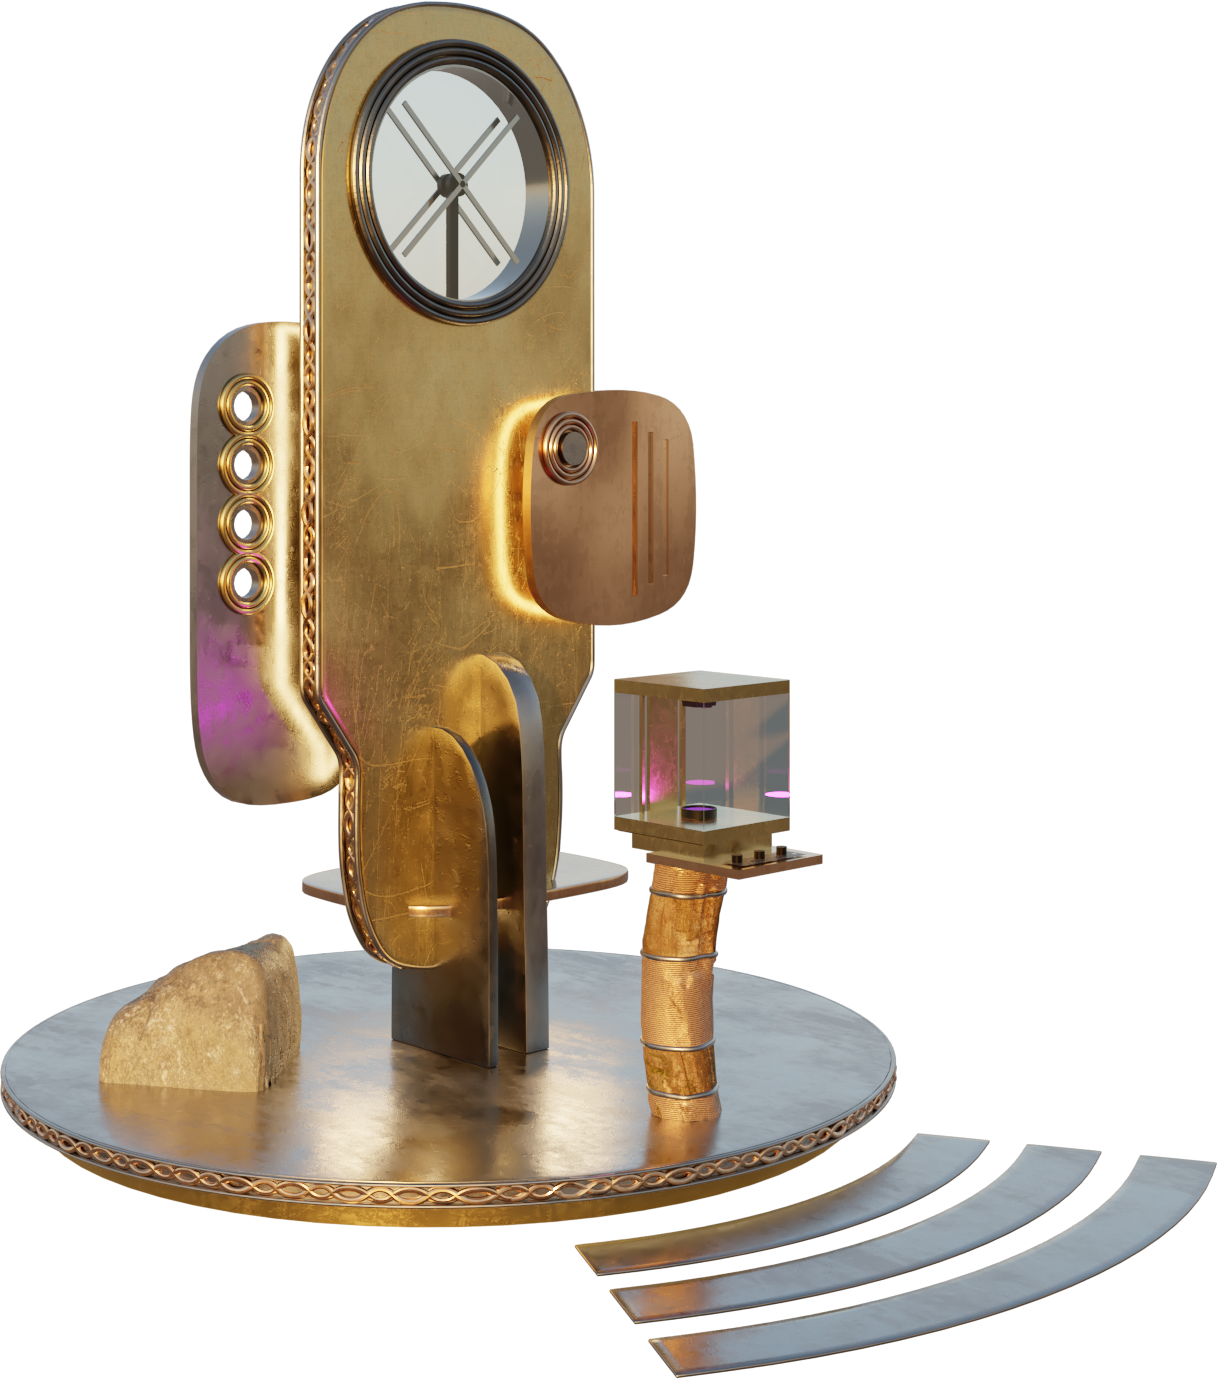
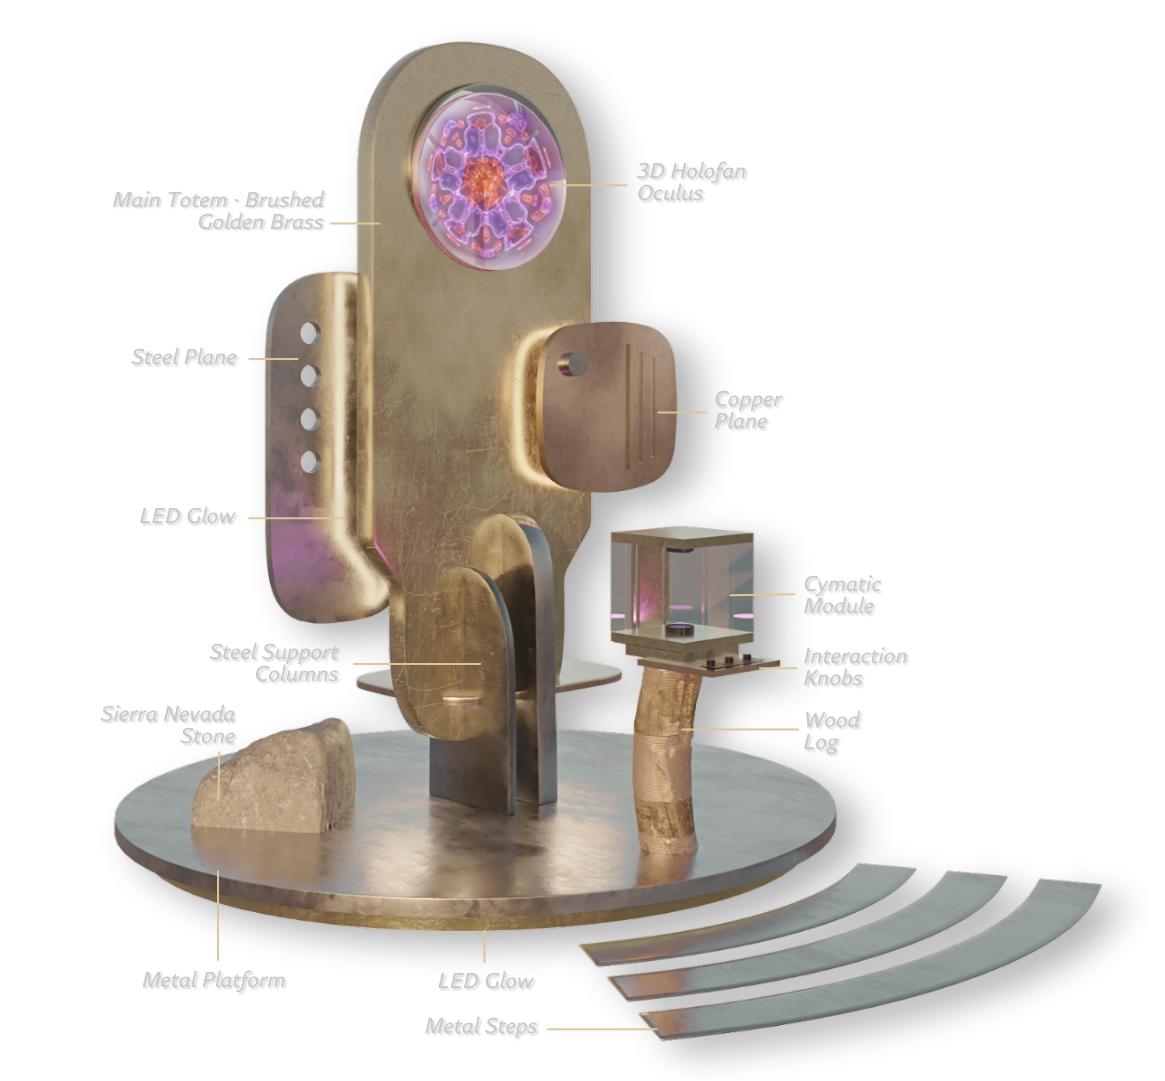
changes 062926

diff --git a/aluna_landing.html b/aluna_landing.html
@@ -54,10 +54,10 @@
   </div>
   <div class="hero-content">
     <div class="hero-inner">
-      <p class="te h-ey">Born in the Sierra Nevada de Santa Marta. Bound for Black Rock City.</p>
       <h1 class="thh h-hl" id="hero-hl">Where sound<br>becomes visible.</h1>
+      <p class="te h-ey">Born in the Sierra Nevada de Santa Marta. Bound for Black Rock City.</p>
       <p class="tsd h-sh">ALUNA is an interactive sculpture from Colombia that transforms vibration into living geometry, where Tayrona ancestral thought, cymatics, water, and human presence converge.</p>
-      <p class="tbd h-sp">Not only a sculpture, an encounter with the unseen forces that move through us and around us.</p>
+      <!-- <p class="tbd h-sp">Not only a sculpture, an encounter with the unseen forces that move through us and around us.</p> -->
       <div class="h-ct">
         <div class="scroll-ind" aria-hidden="true">
           <div class="scroll-line"></div>
@@ -91,7 +91,9 @@
 
 <!-- ═══ 03 VISION ═══ -->
 <section class="vision" id="vision" aria-labelledby="vision-h">
-  <div class="vision-bg" aria-hidden="true"></div>
+  <div class="vision-bg" aria-hidden="true">
+
+  </div>
   <div class="container">
     <div class="vision-layout">
       <div class="vision-text">
@@ -106,7 +108,6 @@
         <p class="tsd af" data-d="5">Not only a sculpture, but an encounter with the unseen forces that move through us and around us.</p>
       </div>
       <div class="vision-illus af" data-d="2" aria-hidden="true">
-        <!-- ASSET: Engraved head illustration · deck slide 3 · PLACEHOLDER -->
         <img src="assets/head.png" alt="" loading="lazy" onerror="this.closest('.vision-illus').style.display='none'">
       </div>
     </div>
@@ -116,8 +117,6 @@
 <!-- ═══ 04 WORKS ═══ -->
 <section class="works" id="works" aria-labelledby="works-h">
   <div class="works-bg" aria-hidden="true">
-    <!-- ASSET: cym01.png · convert to cymatics-01.webp -->
-    <img src="assets/cymatics_bg.png" alt="" class="works-bg-img" loading="lazy" onerror="this.style.display='none'">
     <!-- VIDEO-READY: cymatics footage — uncomment when available
     <div class="works-bg-video" id="works-video">
       <video autoplay muted loop playsinline aria-hidden="true" tabindex="-1">
@@ -134,7 +133,6 @@
       </div>
       <div class="steps" role="list">
         <div class="step al" role="listitem">
-          <div class="step-img"><img src="assets/step1.png" alt="" loading="lazy"></div>
           <div class="step-body">
             <div class="tsn" aria-hidden="true">01</div>
             <div class="tsl">Tune</div>
@@ -142,7 +140,6 @@
           </div>
         </div>
         <div class="step al" data-d="2" role="listitem">
-          <div class="step-img"><img src="assets/step2.png" alt="" loading="lazy"></div>
           <div class="step-body">
             <div class="tsn" aria-hidden="true">02</div>
             <div class="tsl">Witness</div>
@@ -150,7 +147,6 @@
           </div>
         </div>
         <div class="step al" data-d="4" role="listitem">
-          <div class="step-img"><img src="assets/step3.png" alt="" loading="lazy"></div>
           <div class="step-body">
             <div class="tsn" aria-hidden="true">03</div>
             <div class="tsl">Experience</div>
@@ -168,8 +164,7 @@
 <!-- ═══ 05 MATTERS ═══ -->
 <section class="matters" id="matters" aria-labelledby="matters-h">
   <div class="matters-bg" aria-hidden="true">
-    <!-- ASSET: cymatics mandala · deck slide 5 · cym01.png variant · PLACEHOLDER -->
-    <img src="assets/images/cymatics-mandala.webp" alt="" class="matters-bg-img" loading="lazy" onerror="this.style.display='none'">
+    <img src="assets/cymatics_bg.png" alt="" class="matters-bg-img" loading="lazy" onerror="this.style.display='none'">
     <div class="matters-bg-ov" aria-hidden="true"></div>
   </div>
   <div class="container">
@@ -201,7 +196,7 @@
 <!-- ═══ 06 GALLERY ═══ -->
 <section class="gallery-sec" id="gallery" aria-labelledby="gallery-h">
   <div class="gallery-hdr">
-    <p class="te af" id="gallery-h">The Work</p>
+    <p class="tsn af" id="gallery-h">The Work</p>
   </div>
   <div class="gallery-wrap" id="galleryWrap" role="region" aria-label="Image gallery — scroll to view">
     <div class="gallery-track" id="galleryTrack">
@@ -247,7 +242,6 @@
   <div class="container">
     <div class="art-layout">
       <div class="art-img af">
-        <!-- ASSET: ISOLATED.png / Aluna_Shp_Png.png -->
         <img src="assets/isolated2.png" alt="ALUNA sculpture — a 12-foot golden brass totem with holographic crown and sealed cymatics chamber at its base" loading="lazy" onerror="this.style.opacity='.15'">
       </div>
       <div class="art-text">
@@ -259,7 +253,7 @@
         <p class="tbl al" data-d="3">Beneath the surface, a sealed cymatics chamber, three physical controls, a real-time water system, and a holographic display transform the body of the sculpture into a living instrument.</p>
         <div class="specs-grid af" data-d="2">
           <div class="spec-item"><div class="spec-k">Height</div><div class="spec-v">12 ft</div></div>
-          <div class="spec-item"><div class="spec-k">Footprint</div><div class="spec-v">7 × 7 ft</div></div>
+          <div class="spec-item"><div class="spec-k">Footprint</div><div class="spec-v">8 × 8 ft</div></div>
           <div class="spec-item"><div class="spec-k">Controls</div><div class="spec-v">3 physical knobs</div></div>
           <div class="spec-item"><div class="spec-k">Power</div><div class="spec-v">Solar</div></div>
           <div class="spec-item"><div class="spec-k">Display</div><div class="spec-v">25.6″ Holographic</div></div>
@@ -421,13 +415,13 @@
           </button>
           <div class="tm-panel" id="panel-5">
             <div class="tm-photo">
-              <img src="assets/scaro.png" alt="Camilo Caycedo" loading="lazy"
+              <img src="assets/tito.png" alt="Mauricio Tito Caicedo" loading="lazy"
                 onerror="this.parentElement.innerHTML='<div class=tm-initials>CC</div>'">
             </div>
             <div class="tm-body">
-              <p class="tm-name">Camilo Caycedo</p>
-              <p class="tm-role">Industrial Design · Technical Drawing</p>
-              <p class="tm-bio">Designer and fabricator. Cultural production work across Bogotá and Las Vegas.</p>
+              <p class="tm-name">Mauricio "Tito" Caicedo</p>
+              <p class="tm-role">Technology Specialist</p>
+              <p class="tm-bio">His practice focuses on immersive, light based installations that transform public spaces through light, color and movement. Using programmable lighting and durable materials to create abstract works that are accessible across all cultures, using movement, rhythm, color and light, as a universal language.</p>
             </div>
           </div>
         </div>
@@ -489,32 +483,13 @@
         </div>
 
         <div class="btn-ch ch-primary ch-static al">
-          <div><p class="ch-title">Contribute Directly</p></div>
-          <p class="ch-text">One-click direct contribution. Simple, secure, immediate</p>
-          <a href="#" class="ch-cta-btn" data-sup="stripe" aria-label="Donate directly via Stripe">Donate Directly</a>
-        </div>
-      </div>
-
-      <div class="ch-rows-2">
-        <div class="btn-ch ch-primary ch-static al">
           <div><p class="ch-title">Get ALUNA Merch</p></div>
           <p class="ch-text">Carry the frequency. Merch proceeds support the project.</p>
           <a href="#" class="ch-cta-btn" data-sup="merch" aria-label="Shop ALUNA merchandise">Shop Merch</a>
         </div>
 
-        <div class="btn-ch ch-primary ch-static al">
-          <div><p class="ch-title">Become a Partner</p></div>
-          <p class="ch-text">Align your brand or institution with ALUNA's cultural and artistic mission.</p>
-          <a href="#" class="ch-cta-btn" data-sup="Become a partner" aria-label="Shop ALUNA merchandise">Let's Talk</a>
-        </div>
-
-        <div class="btn-ch ch-primary ch-static al">
-          <div><p class="ch-title">Share</p></div>
-          <p class="ch-text">No contribution required. Help expand this project's visibility and reach.</p>
-          <a href="#" class="ch-cta-btn" data-sup="Become a partner" aria-label="Share ALUNA">Let's Talk</a>
-        </div>
-
       </div>
+
     </div>
   </div>
 </section>
@@ -554,6 +529,13 @@
     </div>
   </div>
 </footer>
+
+<div class="lightbox" id="lightbox" role="dialog" aria-modal="true" aria-label="Image viewer">
+  <button class="lb-close" id="lbClose" aria-label="Close image">&#215;</button>
+  <div class="lb-img-wrap">
+    <img class="lb-img" id="lbImg" src="" alt="">
+  </div>
+</div>
 
 <script src="script.js"></script>
 </body>

diff --git a/script.js b/script.js
@@ -60,8 +60,25 @@ const accordion = document.querySelector('.team-accordion');
 if (accordion) {
   const tmItems = accordion.querySelectorAll('.tm-item');
   const TAB_W = 48;
+  const mq = window.matchMedia('(max-width:767px)');
+
+  function currentOpen() {
+    return accordion.querySelector('.tm-item.open') || tmItems[0];
+  }
 
   function setWidths(openItem, animate) {
+    if (mq.matches) {
+      // Mobile: CSS handles height animation, JS only manages open class
+      tmItems.forEach(it => {
+        const isOpen = it === openItem;
+        it.style.width = '';
+        it.style.transition = '';
+        it.classList.toggle('open', isOpen);
+        it.querySelector('.tm-tab').setAttribute('aria-expanded', String(isOpen));
+      });
+      return;
+    }
+
     const totalW = accordion.clientWidth;
     const openW  = Math.round(totalW - (tmItems.length - 1) * TAB_W);
 
@@ -84,7 +101,6 @@ if (accordion) {
       const wasOpen = it.classList.contains('open');
 
       if (wasOpen && !isOpen) {
-        // Closing: instantly hide content and snap width — no fade, no flash
         const panel = it.querySelector('.tm-panel');
         panel.style.transition = 'none';
         panel.style.opacity = '0';
@@ -98,7 +114,6 @@ if (accordion) {
           panel.style.opacity = '';
         }));
       } else if (isOpen && !wasOpen) {
-        // Opening: animate width expansion only
         it.style.width = openW + 'px';
         it.classList.add('open');
         it.querySelector('.tm-tab').setAttribute('aria-expanded', 'true');
@@ -113,6 +128,40 @@ if (accordion) {
       if (!item.classList.contains('open')) setWidths(item, true);
     });
   });
+
+  // Re-initialise when crossing the mobile breakpoint
+  mq.addEventListener('change', () => setWidths(currentOpen(), false));
+
+  // Recalculate widths on desktop resize
+  let resizeTimer;
+  window.addEventListener('resize', () => {
+    if (mq.matches) return;
+    clearTimeout(resizeTimer);
+    resizeTimer = setTimeout(() => setWidths(currentOpen(), false), 150);
+  }, { passive: true });
+}
+
+/* LIGHTBOX */
+const lightbox = document.getElementById('lightbox');
+const lbImg    = document.getElementById('lbImg');
+const lbClose  = document.getElementById('lbClose');
+if (lightbox) {
+  function openLb(src, alt) {
+    lbImg.src = src; lbImg.alt = alt;
+    lightbox.classList.add('open');
+    document.body.style.overflow = 'hidden';
+  }
+  function closeLb() {
+    lightbox.classList.remove('open');
+    document.body.style.overflow = '';
+    lbImg.src = '';
+  }
+  document.querySelectorAll('.g-item img').forEach(img => {
+    img.addEventListener('click', () => openLb(img.src, img.alt));
+  });
+  lbClose.addEventListener('click', closeLb);
+  lightbox.addEventListener('click', e => { if (e.target === lightbox || e.target === lbImg.parentElement) closeLb(); });
+  document.addEventListener('keydown', e => { if (e.key === 'Escape' && lightbox.classList.contains('open')) closeLb(); });
 }
 
 /* SHARE */

diff --git a/style.css b/style.css
@@ -78,7 +78,7 @@ button { font-family:inherit; cursor:pointer; border:none; background:none; }
 /* ━━━━━━━━━━━━━━━━━━━━━━━━━━━━━━━━━━━━━━━━━━━
    TYPOGRAPHY
 ━━━━━━━━━━━━━━━━━━━━━━━━━━━━━━━━━━━━━━━━━━━ */
-.te  { font-family:var(--ff-mono); font-size:10px; letter-spacing:.14em; text-transform:uppercase; color:var(--brass); }
+.te  { font-family:var(--ff-mono); font-size:11px; letter-spacing:.14em; text-transform:uppercase; color:var(--tw70); }
 .thh { font-family:var(--ff-display); font-size:clamp(48px,7vw,88px); font-weight:300; letter-spacing:-.02em; line-height:1.0; color:var(--tw); }
 .thd { font-family:var(--ff-display); font-size:clamp(32px,4vw,50px); font-weight:300; letter-spacing:-.01em; line-height:1.1; color:var(--brass); }
 .thl { font-family:var(--ff-display); font-size:clamp(32px,4vw,50px); font-weight:300; letter-spacing:-.01em; line-height:1.1; color:var(--td); }
@@ -273,7 +273,7 @@ button { font-family:inherit; cursor:pointer; border:none; background:none; }
 
 .scroll-ind { display:flex; flex-direction:column; align-items:flex-start; gap:10px; }
 .scroll-line { width:1px; height:48px; background:linear-gradient(to bottom, var(--brass), transparent); animation:spulse 2s ease-in-out infinite; }
-.scroll-lbl { font-family:var(--ff-mono); font-size:9px; letter-spacing:.12em; text-transform:uppercase; color:var(--tw30); }
+.scroll-lbl { font-family:var(--ff-mono); font-size:11px; letter-spacing:.12em; text-transform:uppercase; color:var(--brass); }
 
 @keyframes kb { from{transform:scale(1.0)} to{transform:scale(1.04)} }
 @keyframes fiu { from{opacity:0;transform:translateY(14px)} to{opacity:1;transform:translateY(0)} }
@@ -299,7 +299,8 @@ button { font-family:inherit; cursor:pointer; border:none; background:none; }
    03 VISION
 ━━━━━━━━━━━━━━━━━━━━━━━━━━━━━━━━━━━━━━━━━━━ */
 .vision { padding:var(--pv) 0; position:relative; overflow:hidden; background:var(--bg-d3); }
-.vision-bg { position:absolute; inset:0; background:radial-gradient(ellipse at 70% 50%, rgba(201,169,110,.04) 0%, transparent 65%); pointer-events:none; }
+.vision-bg { position:absolute; inset:0; z-index:0; background:radial-gradient(ellipse at 70% 50%, rgba(201,169,110,.04) 0%, transparent 65%), url(assets/vision-bg.png) center/cover no-repeat; opacity:.5; pointer-events:none; }
+.vision .container { position:relative; z-index:1; }
 .vision-layout { display:grid; grid-template-columns:1.4fr 1fr; gap:64px; align-items:start; }
 .vision-text { display:flex; flex-direction:column; gap:22px; }
 .vision-text .tbd[data-d="2"].vis,
@@ -312,7 +313,7 @@ button { font-family:inherit; cursor:pointer; border:none; background:none; }
 /* ━━━━━━━━━━━━━━━━━━━━━━━━━━━━━━━━━━━━━━━━━━━
    04 WORKS
 ━━━━━━━━━━━━━━━━━━━━━━━━━━━━━━━━━━━━━━━━━━━ */
-.works { padding:var(--pv) 0; position:relative; overflow:hidden; background:var(--bg-d1); }
+.works { padding:var(--pv) 0; position:relative; overflow:hidden; background:var(--bg-d3); }
 .works-bg { position:absolute; inset:0; z-index:0; }
 .works-bg-img { width:100%; height:100%; object-fit:cover; opacity: 0.2;; filter:saturate(.55); }
 /* VIDEO-READY slot */
@@ -323,13 +324,14 @@ button { font-family:inherit; cursor:pointer; border:none; background:none; }
 .works-intro-line { font-family:var(--ff-display); font-style:italic; font-weight:300; font-size:clamp(20px,2.5vw,30px); line-height:1.35; color:var(--brass-lt); }
 .steps { display:grid; grid-template-columns:repeat(3,1fr); position:relative; }
 .steps::before { content:''; position:absolute; top:0; left:0; right:0; height:1px; background:linear-gradient(to right, transparent, var(--brass-dim), transparent); }
-.step { border-right:1px solid var(--bdr-dk-s); display:flex; flex-direction:column; transition:background .35s ease; overflow:hidden; }
+.step { border-right:1px solid var(--bdr-dk-s); display:flex; flex-direction:column; overflow:hidden; position:relative; background-size:cover; background-position:center; background-clip:padding-box; }
 .step:last-child { border-right:none; }
-.step:hover { background:var(--brass-glow); }
-.step-img { width:100%; aspect-ratio:4/3; overflow:hidden; }
-.step-img img { width:100%; height:100%; object-fit:cover; display:block; transition:transform .6s var(--ease-s); }
-.step:hover .step-img img { transform:scale(1.04); }
-.step-body { padding:32px 32px 40px; display:flex; flex-direction:column; gap:14px; }
+.step::before { content:''; position:absolute; inset:0; background:rgba(13,12,17,.72); transition:background .35s ease; z-index:0; }
+.step:hover::before { background:rgba(13,12,17,.58); }
+.step:nth-child(1) { background-image:url(assets/step1.png); }
+.step:nth-child(2) { background-image:url(assets/step2.png); }
+.step:nth-child(3) { background-image:url(assets/step3.png); }
+.step-body { padding:32px 32px 40px; display:flex; flex-direction:column; gap:14px; position:relative; z-index:1; }
 .works-footer { text-align:center; margin-top:64px; }
 .step .tbd { font-size:13px; }
 
@@ -338,7 +340,7 @@ button { font-family:inherit; cursor:pointer; border:none; background:none; }
 ━━━━━━━━━━━━━━━━━━━━━━━━━━━━━━━━━━━━━━━━━━━ */
 .matters { padding:var(--pv) 0; position:relative; overflow:hidden; background:var(--bg-d2); }
 .matters-bg { position:absolute; inset:0; z-index:0; }
-.matters-bg-img { width:100%; height:100%; object-fit:cover; opacity:.14; filter:saturate(.45); }
+.matters-bg-img { width:100%; height:100%; object-fit:cover; opacity: 0.7; filter:saturate(.45); }
 .matters-bg-ov { position:absolute; inset:0; background:radial-gradient(ellipse at center, rgba(13,12,17,.3) 0%, rgba(13,12,17,.72) 100%); }
 .matters-c { position:relative; z-index:1; max-width:720px; margin:0 auto; text-align:center; display:flex; flex-direction:column; gap:24px; }
 .matters-c .tbd { max-width:100%; }
@@ -361,13 +363,7 @@ button { font-family:inherit; cursor:pointer; border:none; background:none; }
 .gallery-wrap.grab { cursor:grabbing; }
 .gallery-track { display:flex; gap:8px; padding:0 var(--ph); width:max-content; }
 .g-item { flex-shrink:0; border-radius:3px; overflow:hidden; position:relative; background:var(--bg-d2); height:clamp(220px,38vw,440px); }
-.g-item:nth-child(1) { width:clamp(280px,50vw,680px); }
-.g-item:nth-child(2) { width:clamp(200px,30vw,400px); }
-.g-item:nth-child(3) { width:clamp(180px,26vw,360px); }
-.g-item:nth-child(4) { width:clamp(200px,28vw,380px); }
-.g-item:nth-child(5) { width:clamp(200px,28vw,380px); }
-.g-item:nth-child(6) { width:clamp(260px,38vw,520px); }
-.g-item img { width:100%; height:100%; object-fit:cover; display:block; transition:transform .6s var(--ease-s), opacity .4s ease; }
+.g-item img { height:100%; width:auto; display:block; transition:transform .6s var(--ease-s), opacity .4s ease; }
 .g-item:hover img { transform:scale(1.03); }
 .g-cap { position:absolute; bottom:0; left:0; right:0; padding:12px 16px; background:linear-gradient(to top, rgba(13,12,17,.8), transparent); font-family:var(--ff-mono); font-size:9px; letter-spacing:.08em; text-transform:uppercase; color:var(--tw50); opacity:0; transition:opacity .3s ease; }
 .g-item:hover .g-cap { opacity:1; }
@@ -481,6 +477,17 @@ button { font-family:inherit; cursor:pointer; border:none; background:none; }
 .ch-merch { background:rgba(201,169,110,.04); }
 
 /* ━━━━━━━━━━━━━━━━━━━━━━━━━━━━━━━━━━━━━━━━━━━
+   LIGHTBOX
+━━━━━━━━━━━━━━━━━━━━━━━━━━━━━━━━━━━━━━━━━━━ */
+.lightbox { position:fixed; inset:0; z-index:500; background:rgba(13,12,17,.96); display:flex; align-items:center; justify-content:center; opacity:0; pointer-events:none; transition:opacity .3s ease; }
+.lightbox.open { opacity:1; pointer-events:auto; }
+.lb-img-wrap { display:flex; align-items:center; justify-content:center; max-width:92vw; max-height:92vh; }
+.lb-img { max-width:92vw; max-height:92vh; width:auto; height:auto; object-fit:contain; display:block; border-radius:3px; }
+.lb-close { position:absolute; top:20px; right:24px; background:none; border:none; color:var(--tw50); font-size:32px; line-height:1; padding:8px; cursor:pointer; transition:color .2s ease; }
+.lb-close:hover { color:var(--tw); }
+.g-item { cursor:zoom-in; }
+
+/* ━━━━━━━━━━━━━━━━━━━━━━━━━━━━━━━━━━━━━━━━━━━
    11 FOOTER
 ━━━━━━━━━━━━━━━━━━━━━━━━━━━━━━━━━━━━━━━━━━━ */
 .footer { padding:var(--pv) 0 40px; background:var(--bg-d2); }
@@ -538,8 +545,15 @@ button { font-family:inherit; cursor:pointer; border:none; background:none; }
   .hero-img { animation:none; }
   .sierra-bg-img { animation:none; }
 }
+@media(max-width:767px) {
+  .team-accordion { flex-direction:column; aspect-ratio:unset; height:auto; }
+  .tm-item { width:100% !important; height:48px; border-right:none; border-bottom:1px solid var(--bdr-lt); transition:height 0.6s cubic-bezier(0.16,1,0.3,1), background 0.4s ease !important; will-change:height; }
+  .tm-item:last-child { border-bottom:none; }
+  .tm-item.open { height:340px; }
+  .tm-tab { width:100%; height:48px; padding:0 20px; justify-content:flex-start; gap:12px; }
+  .tm-vname { writing-mode:horizontal-tb; transform:none; }
+}
 @media(max-width:480px) {
-  .team-accordion { aspect-ratio:auto; height:360px; }
   .ch-rows-2 { grid-template-columns:1fr; }
   .r-sep { display:none; }
   .coll-foot { flex-direction:column; gap:16px; align-items:flex-start; }